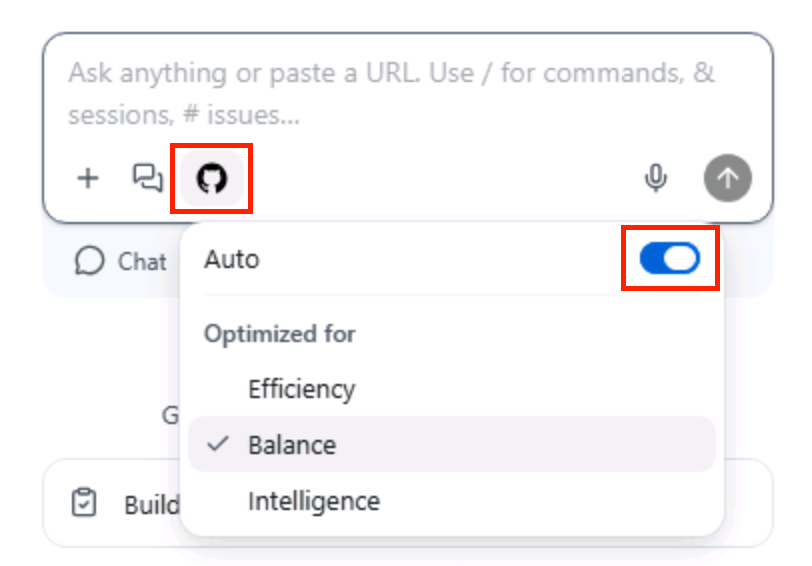
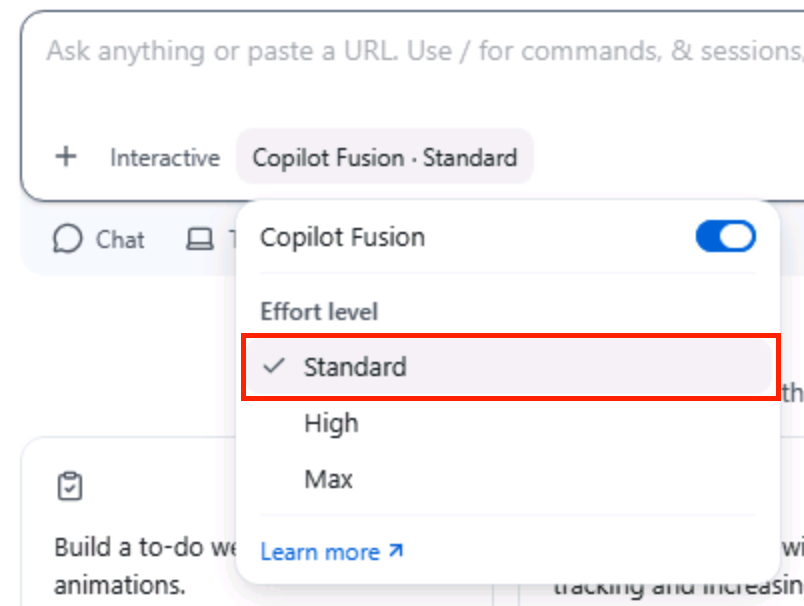
Switch bootstrap to Copilot Fusion and add keychain login tip

diff --git a/docs/instructions/05-bootstrap.md b/docs/instructions/05-bootstrap.md
@@ -34,12 +34,12 @@ The lab template is a working, secure starter that we'll use to get faster to th
 
 1. In the GitHub Copilot app, start a new chat.
 
-1. Click on the model picker in the chat area (note that the icon may vary) and enable **Auto** mode.
+1. Click on the model picker in the chat area (note that the icon may vary) and enable **Copilot Fusion** mode.
 
     ![GitHub Copilot App Model Picker](../../img/github-copilot-model-picker.png)
 
     > [!TIP]
-    > Enabling **Auto** mode ensures that the agent uses the appropriate model for the task at hand, improving the accuracy and relevance of its responses. You can optimize the model selection for *Efficiency* to opt for faster responses and lower cost, or *Intelligence* to prioritize more accurate responses at a higher cost. We'll use the default *Balance* setting, which balances speed, cost, and accuracy for most tasks.
+    > **Copilot Fusion** is an intelligent runtime model router and orchestrator. This mode ensures that the agent uses the appropriate model for the task at hand, improving the accuracy and relevance of its responses, while optimizing the cost. Default effort level is *Standard*, which balances speed, cost, and accuracy. You can also opt for *High* or *Max* effort levels for more demanding tasks that require greater accuracy and thoroughness, at the expense of speed and cost.
 
 1. Enter the following prompt, then press **Enter**:
 
@@ -83,9 +83,9 @@ Deploying creates a Fabric App item in your workspace, provisions a managed SQL 
     Workspace URL: <replace with the URL of your Fabric workspace>
     ```
 
-1. Before validating the prompt, open the web browser with the Microsoft Fabric tab, and navigate to your workspace if needed. Copy the URL of your workspace to use in the next step and paste it in the prompt.
+1. Before validating the prompt, open the web browser with the Microsoft Fabric tab, and navigate to your workspace if needed. Copy the URL of your workspace to use in the next step and paste it in the prompt. Press **Enter** to continue.
 
-1. A confirmation dialog will appear at the bottom asking you if you trust the repository. Select **A. Trust repository** to continue.
+1. A confirmation dialog will appear at the bottom asking you if you trust the repository. Select **A. Always trust repository** to continue.
 
 1. When a browser window opens to sign in, select the **@lab.CloudPortalCredential(User1).Username** account.
 
@@ -93,6 +93,9 @@ Deploying creates a Fabric App item in your workspace, provisions a managed SQL 
     > If you're asked for credentials, use the same email and Temporary Access Pass you used in Exercise 1.
 
 1. Wait for the deployment to finish. The first deployment takes a few minutes.
+
+    > [!IMPORTANT]
+    > Rayfin tool may report an error like **Login failed: OS keychain is not available and plaintext token storage is not enabled.** because of the VM environment. If asked, allow the agent to login using plain text credentials storage and retry.
 
 1. Confirm that the agent reports a successful deployment and gives you the URL of the hosted app.
 
